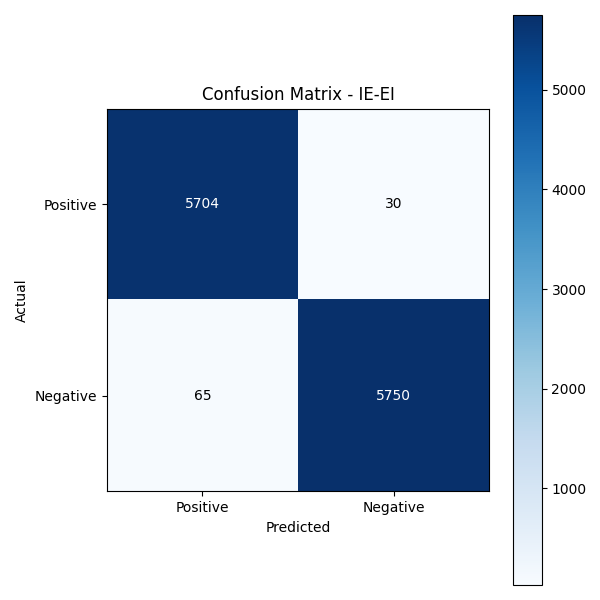
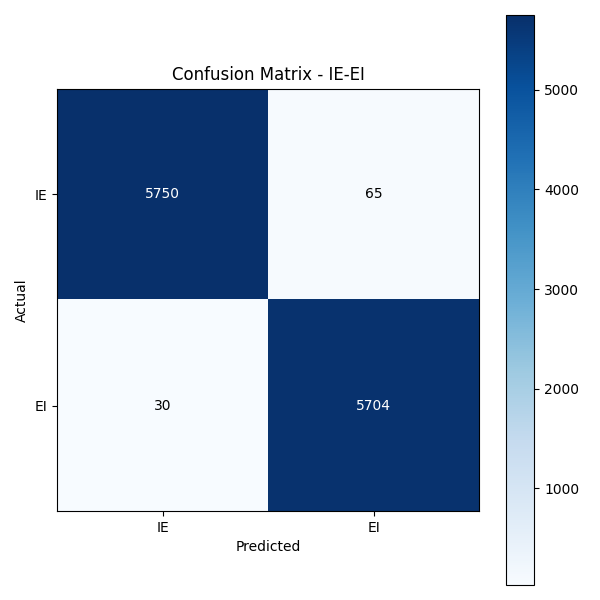
Updated wrong labels in charts

diff --git a/training/evaluate_genomic_data.py b/training/evaluate_genomic_data.py
@@ -318,10 +318,25 @@ def print_results(results, output_dir="results"):
         # Create confusion matrix
         plt.figure(figsize=(6, 6))
         
-        # Calculate confusion matrix values
-        positive_results = zone_results.get('positive_cases') or zone_results.get('ze_cases') or zone_results.get('ei_cases')
-        negative_results = zone_results.get('negative_cases') or zone_results.get('ez_cases') or zone_results.get('ie_cases')
+        # Determine labels based on zone type
+        if zone == "ei-ie":
+            labels = ["EI", "IE"]
+            positive_results = zone_results.get('ei_cases')
+            negative_results = zone_results.get('ie_cases')
+        elif zone == "ie-ei":
+            labels = ["IE", "EI"]
+            positive_results = zone_results.get('ie_cases')
+            negative_results = zone_results.get('ei_cases')
+        elif zone == "ze-ez":
+            labels = ["ZE", "EZ"]
+            positive_results = zone_results.get('ze_cases')
+            negative_results = zone_results.get('ez_cases')
+        else:
+            labels = ["Positive", "Negative"]
+            positive_results = zone_results.get('positive_cases')
+            negative_results = zone_results.get('negative_cases')
 
+        # Calculate confusion matrix values
         true_positive = positive_results['correct']
         false_positive = negative_results['incorrect']
         false_negative = positive_results['incorrect']
@@ -347,8 +362,8 @@ def print_results(results, output_dir="results"):
         plt.xlabel('Predicted')
         plt.ylabel('Actual')
         plt.title(f'Confusion Matrix - {zone.upper()}')
-        plt.xticks([0, 1], ['Positive', 'Negative'])
-        plt.yticks([0, 1], ['Positive', 'Negative'])
+        plt.xticks([0, 1], labels)
+        plt.yticks([0, 1], labels)
         
         # Adjust layout and save chart
         plt.tight_layout()
